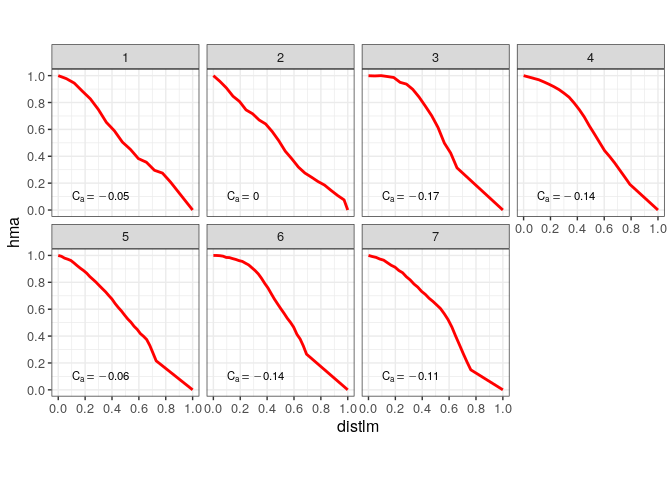
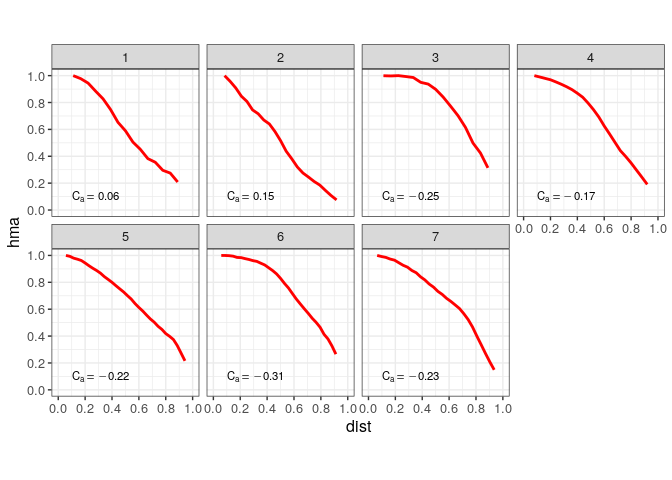
Explanation added

diff --git a/README.md b/README.md
@@ -2,8 +2,31 @@ BeachProfile
 ================
 
 <!-- README.md is generated from README.Rmd. Please edit that file -->
-Packages
---------
+
+BeachProfile is a set of R tools that enable users to extract beach
+profiles from selected transects and a digital surface model. The tools
+generate elevation profile graphs showing the slope, a table of
+associated data, as well as profile concavity calculations. Eventually
+these tools, along with those of the [RCoastSat
+repo](https://github.com/geofis/RCoastSat) for analysis of time-series
+of shoreline extracted with [CoastSat](https://github.com/kvos/CoastSat)
+(an open-source software toolkit written in Python by @kvos), will end
+up in an  package.
+
+Here I show how to generate topographic profiles of Najayo Beach,
+located in the south-central coast of the Dominican Republic. The input
+data include a 10-cm resolution digital surface model (DSM) generated
+from an aerial survey and processed with OpenDroneMap, as well as a set
+of transects previously digitized in QGIS (see )
+
+![Orthophoto and transects as shown in QGIS](img/transects-qgis.jpg)
+
+This repo, the field work and the data collected, are part of assignment
+projects for the Geomorphology course (Geography Degree), Universidad
+Autónoma de Santo Domingo. More details in this
+[video](https://www.youtube.com/watch?v=k6j5pVxvfN0) (in Spanish).
+
+## Packages
 
 ``` r
 library(tidyverse)
@@ -13,31 +36,27 @@ library(RColorBrewer)
 library(raster)
 ```
 
-Read the functions
-------------------
+## Read the functions
 
 ``` r
 funs <- list.files('R', pattern = '*.R', full.names = T)
 map(funs, source)
 ```
 
-Import/plot transects and shorelines
-------------------------------------
+## Import/plot transects and shorelines
 
 ``` r
 # transprof <- rtrans('data/transect-profiles.geojson')
 transprof <- rtrans('data/transect-profiles-short.geojson')
-## Reading layer `tst' from data source `/home/jose/Documentos/git/BeachProfile/data/transect-profiles-short.geojson' using driver `GeoJSON'
+## Reading layer `tst' from data source `/home/jr/Documentos/git/BeachProfile/data/transect-profiles-short.geojson' using driver `GeoJSON'
 ## Simple feature collection with 7 features and 1 field
 ## geometry type:  MULTILINESTRING
 ## dimension:      XY
 ## bbox:           xmin: 382561.7 ymin: 2023228 xmax: 382627.3 ymax: 2023348
-## CRS:            32619
+## epsg (SRID):    32619
+## proj4string:    +proj=utm +zone=19 +datum=WGS84 +units=m +no_defs
 rawDsm <- raster('data/raw-dsm.tif')
-dsm <- thresholdRaise(
-  rasterDsm = rawDsm, threshold = -28.9,
-  outRasterPath = 'out/cleaned-raised-dsm.tif',
-  overwrite=T)
+dsm <- thresholdRaise(rasterDsm = rawDsm, threshold = -28.9)
 plot(dsm)
 plot(as_Spatial(transprof), add=T)
 ```
@@ -62,12 +81,11 @@ ggplot() +
 
 <img src="img/unnamed-chunk-3-2.png" width="100%" />
 
-Profile data
-------------
+## Profile data
 
 ``` r
 profData <- profiles(transects = transprof, height = dsm, pointsPerPixel= 1, movingAvgK = 5)
-## rgeos version: 0.5-2, (SVN revision 621)
+## rgeos version: 0.5-1, (SVN revision 614)
 ##  GEOS runtime version: 3.6.2-CAPI-1.10.2 
 ##  Linking to sp version: 1.3-1 
 ##  Polygon checking: TRUE
@@ -172,12 +190,11 @@ profData
 ## # … with 2 more variables: sloperawdRad [rad], sloperawdDeg [°]
 ```
 
-Profile plots
--------------
+## Profile plots
 
 ### Dimensionsional profiles
 
-#### The profile stretches exactly up to the actual digitized extension
+#### Profiles match their actual digitized extension
 
 ``` r
 #Raw distance
@@ -230,7 +247,7 @@ dmngridrawd + facet_wrap(~transect, nrow = 7) + coord_equal(ratio = 2)
 
 <img src="img/unnamed-chunk-6-2.png" width="100%" />
 
-#### Extending the profile to a conventionally chosen zero using linear regression
+#### Profiles extended to a conventionally chosen zero using linear regression
 
 ``` r
 #Not comparable scales, neither between x and y nor across panels
@@ -285,6 +302,31 @@ dmngrid + facet_wrap(~transect, nrow = 7) + coord_equal(ratio = 2)
 
 ### Dimensionless, profile concavity indices
 
+#### Profiles match their actual digitized extension
+
+``` r
+dmnlsgridrawd1 <- profData$dimensionlessrawdistance %>% na.omit %>% ggplot() +
+  aes(x = dist, y = hma) +
+  geom_line(col = 'red', lwd = 1) +
+  scale_x_continuous(breaks = pretty_breaks(), limits = c(0,1)) +
+  scale_y_continuous(breaks = pretty_breaks(), limits = c(0,1)) +
+  geom_text(
+    data = profData$concavityindexrawdistance, aes(x = 0.1, y = 0.1, label = paste0('C[a]==', round(ci,2))),
+    size = 3,
+    hjust = 0,
+    parse = T
+  ) +
+  coord_equal() +
+  facet_wrap(~transect, nrow = 2) +
+  theme_bw() + 
+  theme(text = element_text(size = 12))
+dmnlsgridrawd1
+```
+
+<img src="img/unnamed-chunk-9-1.png" width="100%" />
+
+#### Profiles extended to a conventionally chosen zero using linear regression
+
 ``` r
 dmnlsgrid1 <- profData$dimensionless %>% na.omit %>% ggplot() +
   aes(x = distlm, y = hma) +
@@ -304,26 +346,4 @@ dmnlsgrid1 <- profData$dimensionless %>% na.omit %>% ggplot() +
 dmnlsgrid1
 ```
 
-<img src="img/unnamed-chunk-9-1.png" width="100%" />
-
-``` r
-
-dmnlsgridrawd1 <- profData$dimensionlessrawdistance %>% na.omit %>% ggplot() +
-  aes(x = dist, y = hma) +
-  geom_line(col = 'red', lwd = 1) +
-  scale_x_continuous(breaks = pretty_breaks(), limits = c(0,1)) +
-  scale_y_continuous(breaks = pretty_breaks(), limits = c(0,1)) +
-  geom_text(
-    data = profData$concavityindexrawdistance, aes(x = 0.1, y = 0.1, label = paste0('C[a]==', round(ci,2))),
-    size = 3,
-    hjust = 0,
-    parse = T
-  ) +
-  coord_equal() +
-  facet_wrap(~transect, nrow = 2) +
-  theme_bw() + 
-  theme(text = element_text(size = 12))
-dmnlsgridrawd1
-```
-
-<img src="img/unnamed-chunk-9-2.png" width="100%" />
+<img src="img/unnamed-chunk-10-1.png" width="100%" />
